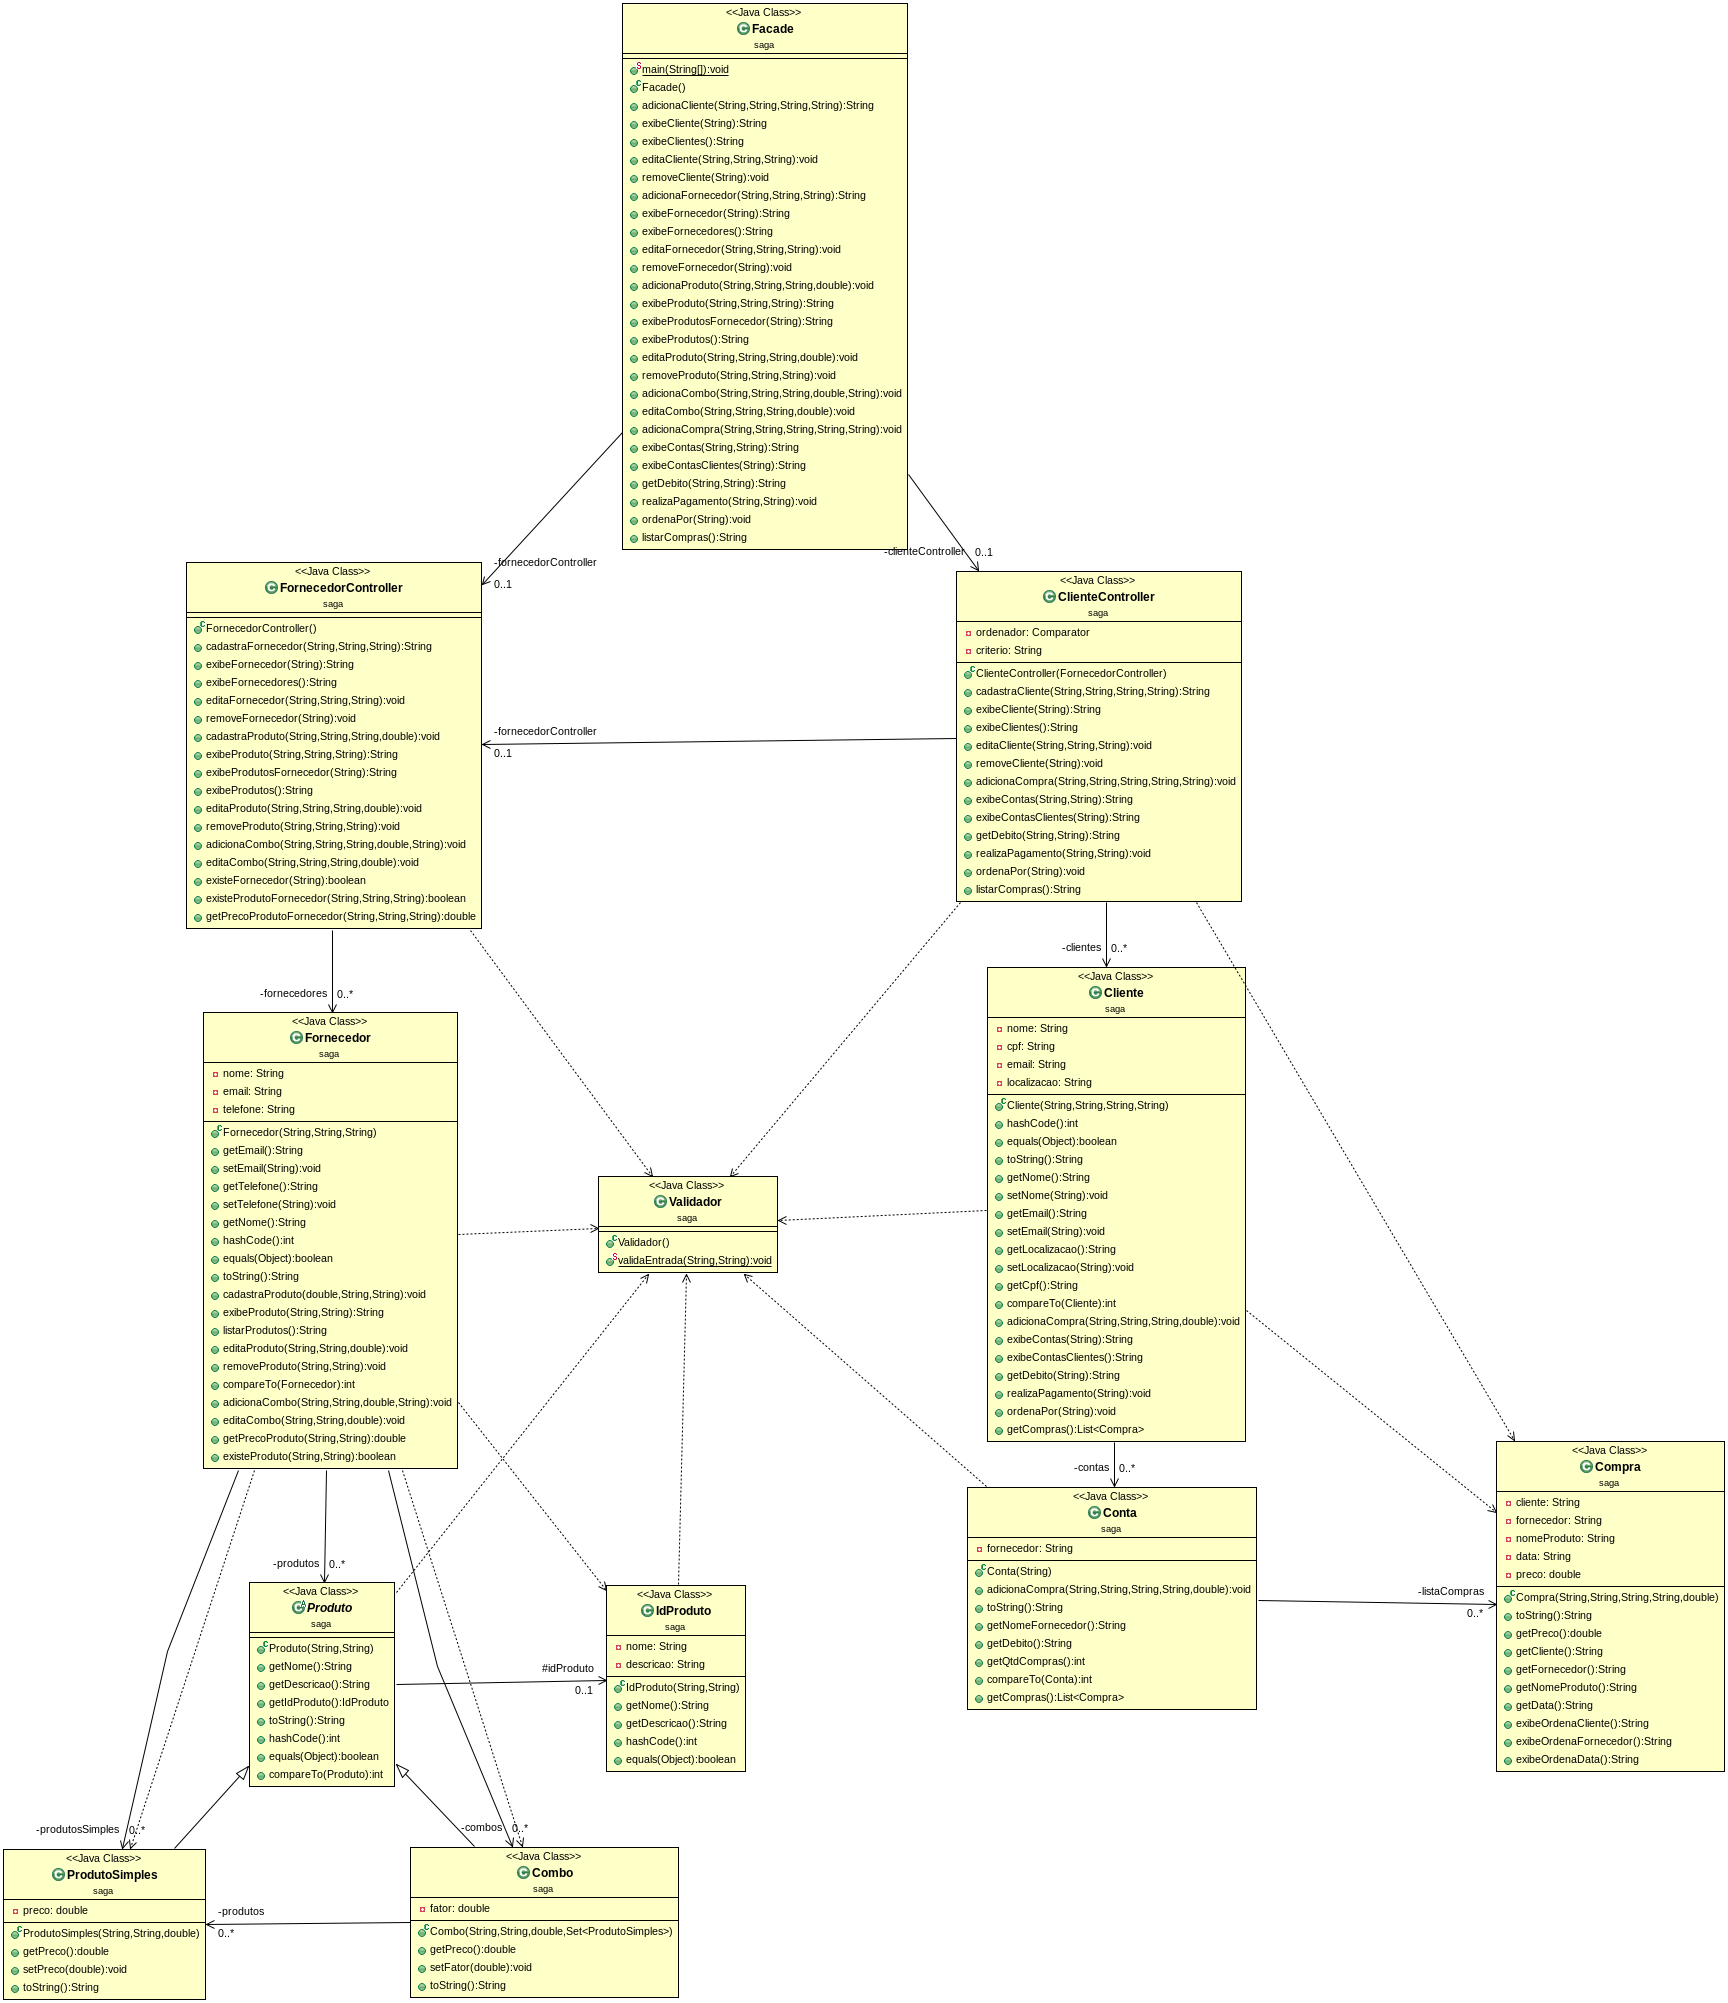
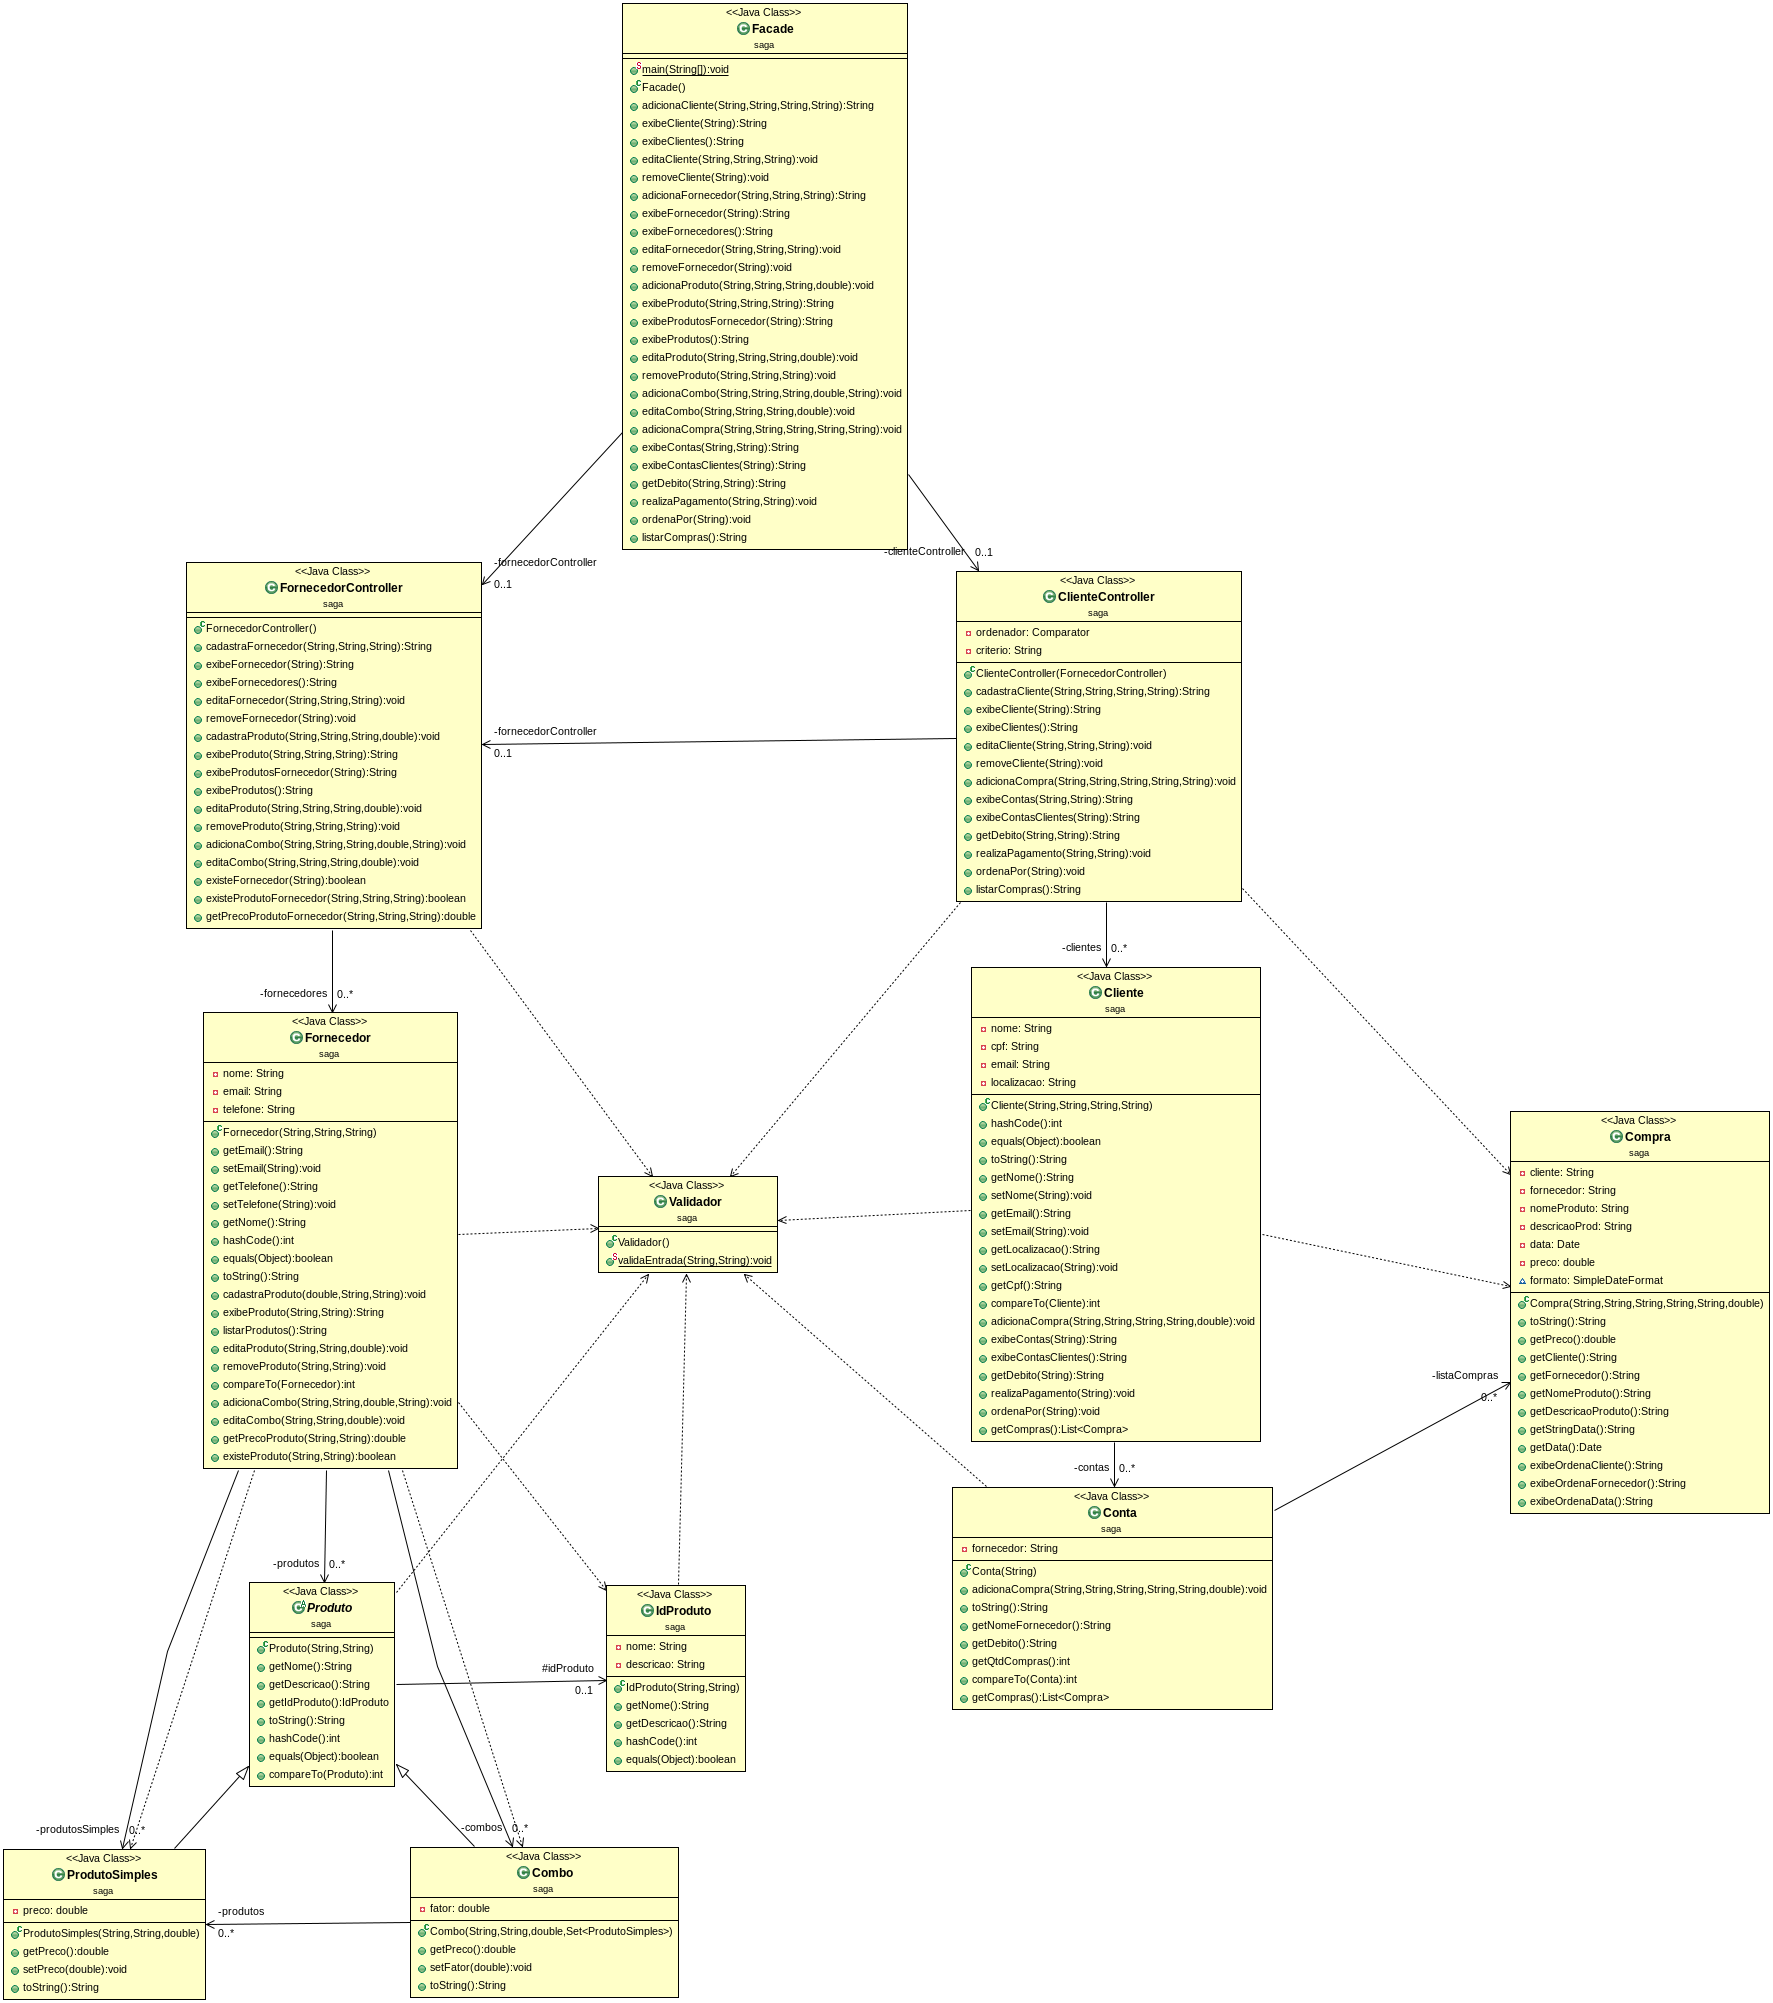
Terminei a us8, porem falta melhorar.

diff --git a/lab5/src/saga/Compra.java b/lab5/src/saga/Compra.java
@@ -1,6 +1,8 @@
 package saga;
 
+import java.text.ParseException;
 import java.text.SimpleDateFormat;
+import java.util.Date;
 
 public class Compra {
 
@@ -8,24 +10,27 @@ public class Compra {
 	private String fornecedor;
 	private String nomeProduto;
 	private String descricaoProd;
-	private String data;
+	private Date data;
 	private double preco;
 	SimpleDateFormat formato;
 	
 	public Compra(String cliente, String fornecedor, String nomeProduto, String descricaoProd, String data, double preco) {
+		formato = new SimpleDateFormat("dd/MM/yyyy");
 		this.cliente = cliente;
 		this.fornecedor = fornecedor;
 		this.nomeProduto = nomeProduto;
 		this.descricaoProd = descricaoProd;
-		this.data = data;
 		this.preco = preco;
-		formato = new SimpleDateFormat();
+		try {
+			this.data = formato.parse(data);
+		} catch (ParseException e) {
+			e.printStackTrace();
+		}
 	}
 
 	@Override
 	public String toString() {
-		
-		return nomeProduto + " - " + data.replace("/", "-");
+		return nomeProduto + " - " + getStringData().replace("/", "-");
 	}
 	
 	public double getPreco() {
@@ -48,20 +53,24 @@ public class Compra {
 		return descricaoProd;
 	}
 
-	public String getData() {
+	public String getStringData() {
+		return formato.format(data);
+	}
+	
+	public Date getData() {
 		return data;
 	}
 	
 	public String exibeOrdenaCliente() {
-		return cliente + ", " + fornecedor + ", " + descricaoProd + ", " + data;
+		return cliente + ", " + fornecedor + ", " + descricaoProd + ", " + getStringData();
 	}
 	
 	public String exibeOrdenaFornecedor() {
-		return fornecedor + ", " + cliente + ", " + descricaoProd + ", " + data;
+		return fornecedor + ", " + cliente + ", " + descricaoProd + ", " + getStringData();
 	}
 	
 	public String exibeOrdenaData() {
-		return data + ", " + cliente + ", " + fornecedor + ", " + descricaoProd;
+		return getStringData() + ", " + cliente + ", " + fornecedor + ", " + descricaoProd;
 	}
 }
 

diff --git a/lab5/src/saga/ClienteController.java b/lab5/src/saga/ClienteController.java
@@ -306,19 +306,4 @@ public class ClienteController {
 		String msg = String.join(" | ", stringCompras);
 		return msg;
 	}
-	
-//	07/04/1998, Lucio Correia, Marcos, Coxao de frango com presunto e queijo | 
-//	11/12/1998, Lucio Correia, Marcos, Refrigerante (lata) | 
-//	11/11/2011, Lucio Correia, Dona Alba, Feijao com arroz e queijo coalho | 
-//	01/11/2016, Ana Amari, Marcos, Coxao de frango com cheddar | 
-//	01/11/2016, Ana Amari, Marcos, Refrigerante (lata) | 
-//	04/11/2018, Dalton, Severo, Cocada de doce de leite com amendoim e agua gelada | 
-//	05/11/2018, Zana, Severo, Cocada de doce de leite com pedacos de amendoim | 
-//	06/11/2018, Dalton, Joabe, Um Bolo e uma Trufa | 
-//	07/11/2018, Joao Neto, Joabe, Doce sabor beijinho | 
-//	08/11/2018, Amigao Fernandes, Marcos, Coxao de frango com cheddar | 
-//	08/11/2018, Joao Neto, Joabe, Bolo de trigo com cobertura de chocolate |
-//	08/11/2018, Joao Neto, Severo, Garrafa de agua 500ml>
-
-
 }

diff --git a/lab5/src/saga/OrdenadorFornecedor.java b/lab5/src/saga/OrdenadorFornecedor.java
@@ -7,8 +7,8 @@ public class OrdenadorFornecedor implements Comparator<Compra>{
 	@Override
 	public int compare(Compra o1, Compra o2) {
 		if (o1.getFornecedor().equals(o2.getFornecedor())) {
-			String msgO1 = o1.getCliente() + ", " + o1.getDescricaoProduto() + ", " + o1.getData();
-			String msgO2 = o2.getCliente() + ", " + o2.getDescricaoProduto() + ", " + o2.getData();
+			String msgO1 = o1.getCliente() + ", " + o1.getDescricaoProduto() + ", " + o1.getStringData();
+			String msgO2 = o2.getCliente() + ", " + o2.getDescricaoProduto() + ", " + o2.getStringData();
 			return msgO1.compareTo(msgO2);
 		}
 		return o1.getFornecedor().compareTo(o2.getFornecedor());

diff --git a/lab5/src/saga/OrdenadorCliente.java b/lab5/src/saga/OrdenadorCliente.java
@@ -7,8 +7,8 @@ public class OrdenadorCliente implements Comparator<Compra>{
 	@Override
 	public int compare(Compra o1, Compra o2) {
 		if (o1.getCliente().equals(o2.getCliente())) {
-			String msgO1 = o1.getFornecedor() + ", " + o1.getDescricaoProduto() + ", " + o1.getData();
-			String msgO2 = o2.getFornecedor() + ", " + o2.getDescricaoProduto() + ", " + o2.getData();
+			String msgO1 = o1.getFornecedor() + ", " + o1.getDescricaoProduto() + ", " + o1.getStringData();
+			String msgO2 = o2.getFornecedor() + ", " + o2.getDescricaoProduto() + ", " + o2.getStringData();
 			return msgO1.compareTo(msgO2);
 		}
 		return o1.getCliente().compareTo(o2.getCliente());

diff --git a/lab5/src/saga/OrdenadorData.java b/lab5/src/saga/OrdenadorData.java
@@ -6,7 +6,7 @@ public class OrdenadorData implements Comparator<Compra>{
 
 	@Override
 	public int compare(Compra o1, Compra o2) {
-		if (o1.getData().equals(o2.getData())) {
+		if (o1.getStringData().equals(o2.getStringData())) {
 			String msgO1 = o1.getCliente() + ", " + o1.getFornecedor() + ", " + o1.getDescricaoProduto();
 			String msgO2 = o2.getCliente() + ", " + o2.getFornecedor() + ", " + o2.getDescricaoProduto();
 			return msgO1.compareTo(msgO2);
